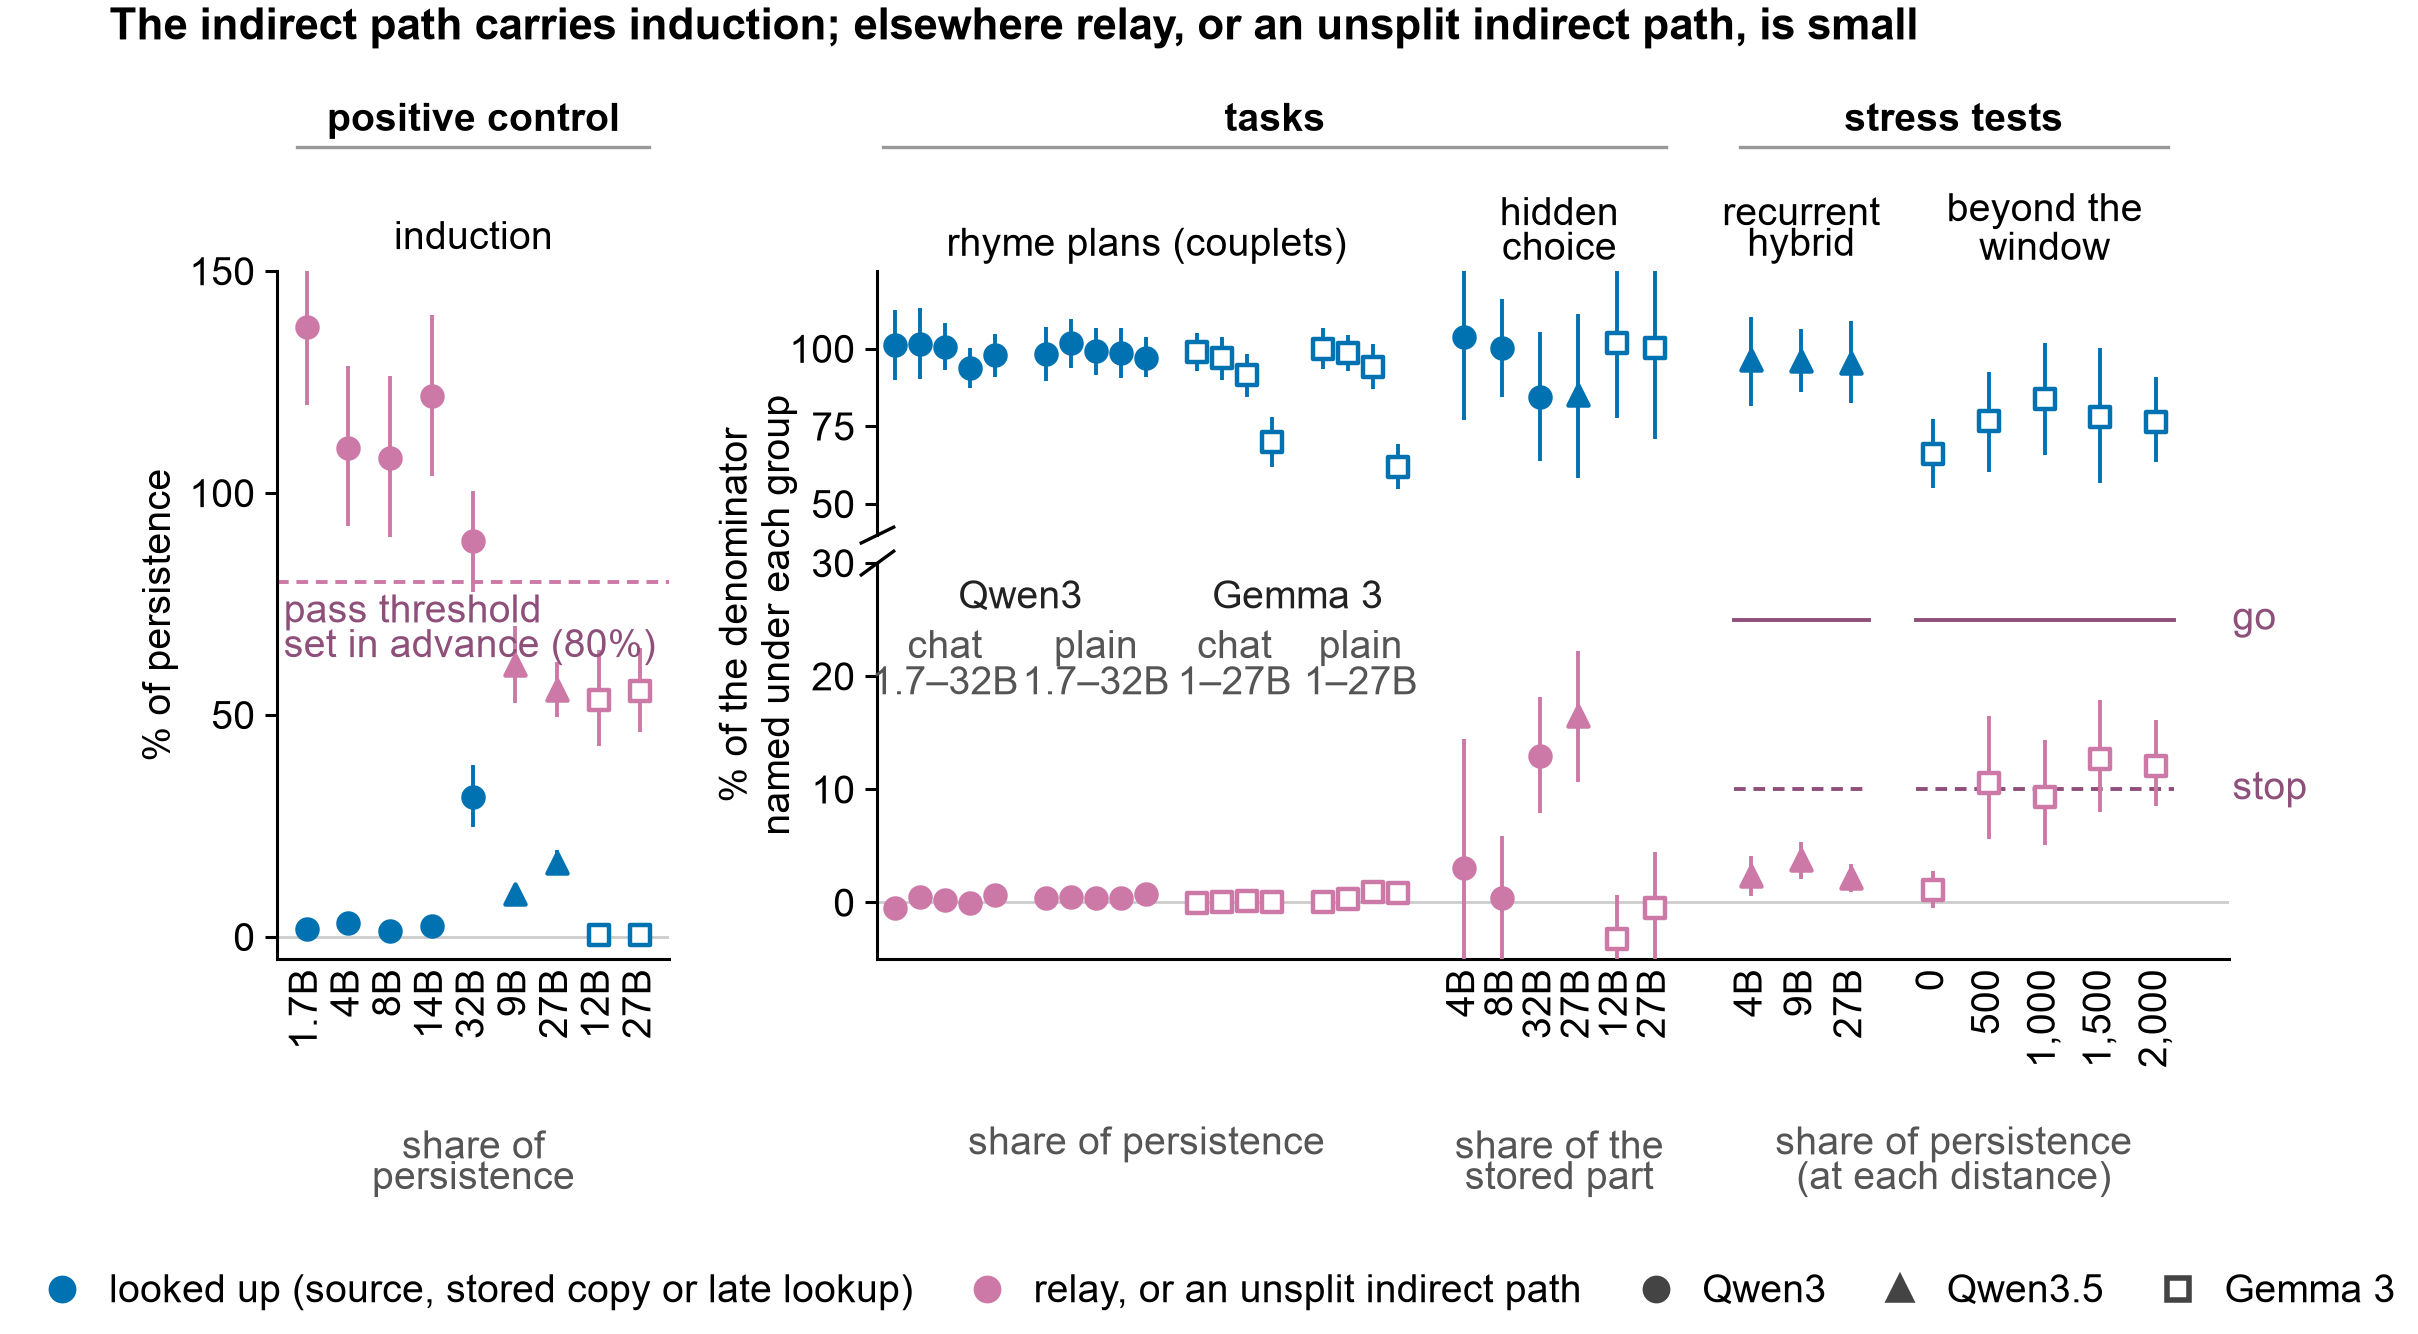
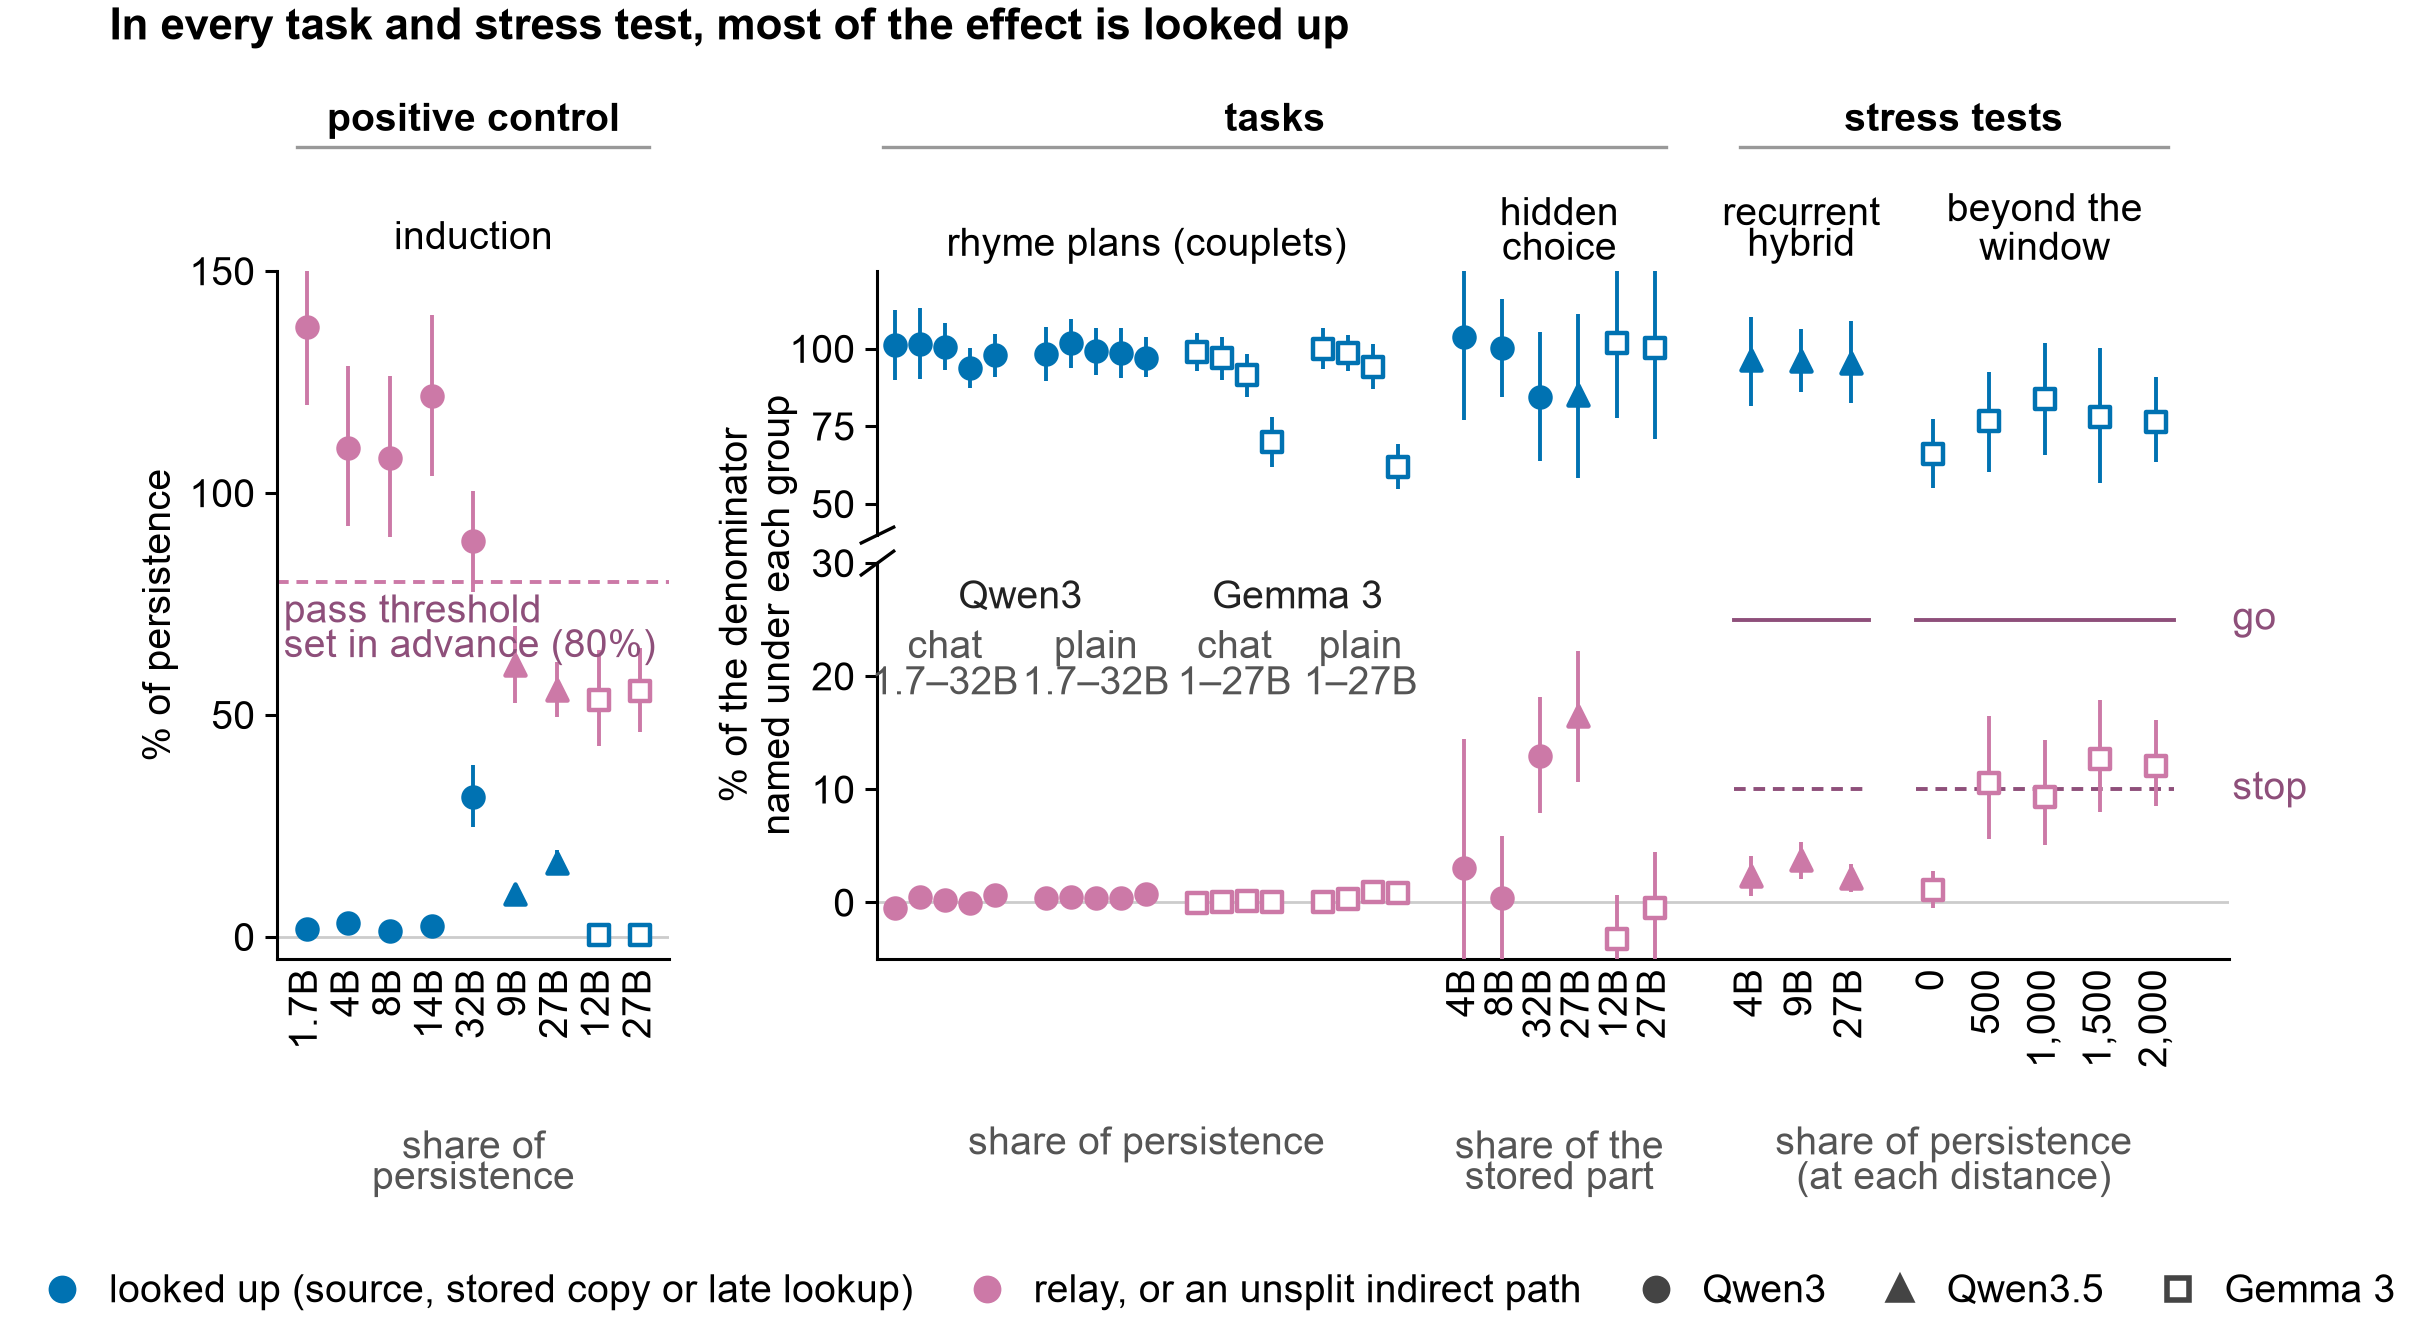
Retitle Figure A1 by its finding: most of the effect is looked up.
The title led with the positive control and stated the main result as a
negative. It now reads "In every task and stress test, most of the effect is
looked up"; the caption leads with the same sentence, says the control shows
the small purple shares are not a blind spot, and notes that for the recurrent
hybrid the colours are entry through attention versus recurrent layers.
Rendered as paper_51.

Changed region(s): [[0.031, 0.0, 0.8065, 0.0307]]

diff --git a/manuscript/figures/make_iclr_figures.py b/manuscript/figures/make_iclr_figures.py
@@ -314,7 +314,7 @@ def fig1(panel):
     xr0, xr1 = 1.92, 5.3
     axT = fig.add_axes([fx(xr0), fy(ybot + hb + brk), fx(xr1 - xr0), fy(ht)])
     axL = fig.add_axes([fx(xr0), fy(ybot), fx(xr1 - xr0), fy(hb)])
-    fig.text(0.0, fy(3.3), "The indirect path carries induction; elsewhere relay, or an unsplit indirect path, is small", fontsize=8,
+    fig.text(0.0, fy(3.3), "In every task and stress test, most of the effect is looked up", fontsize=8,
              weight="bold", va="top")
     den_y = fy(0.5)
 
